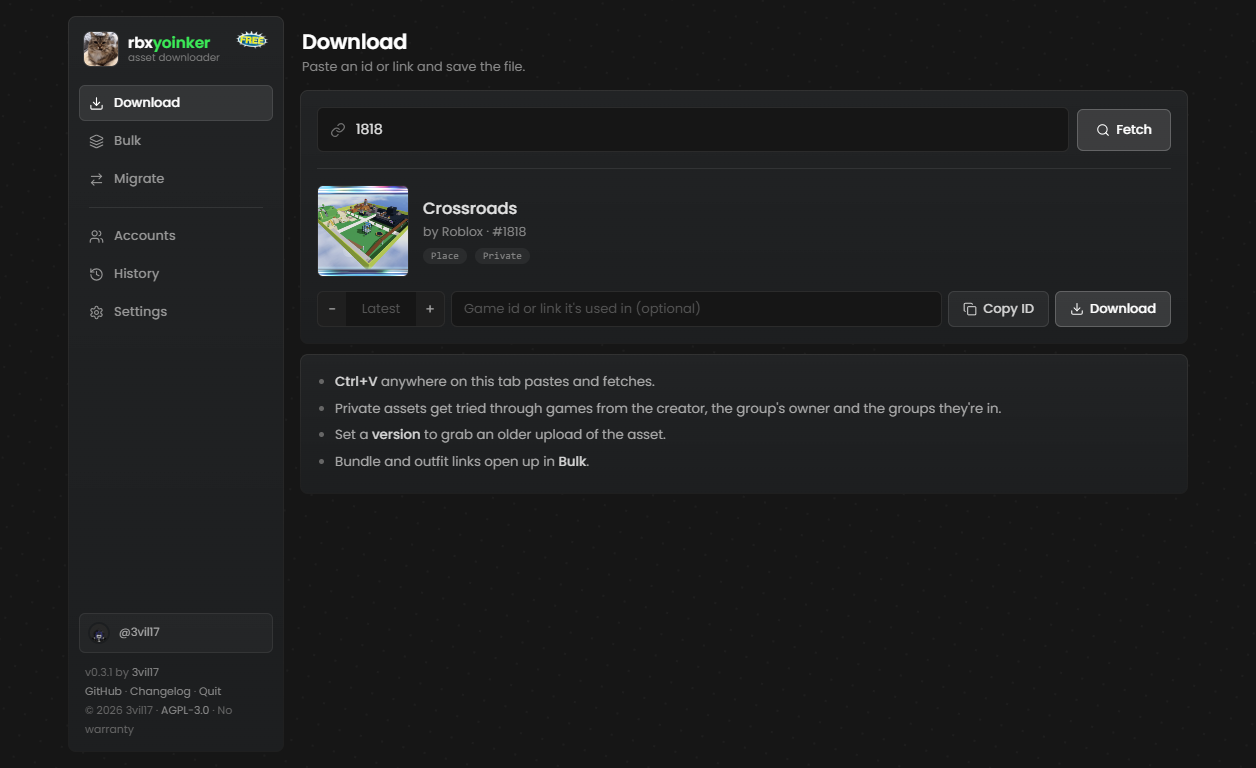
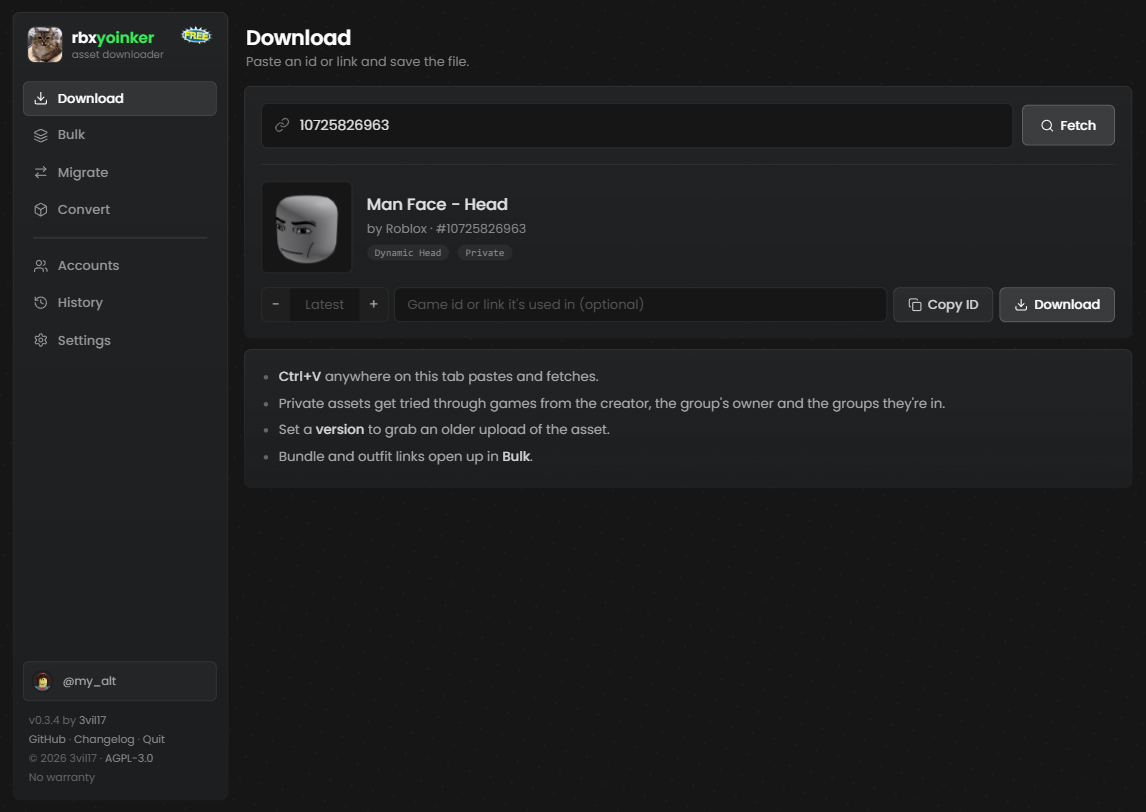
rewrite readme with new screenshots

diff --git a/README.md b/README.md
@@ -5,94 +5,135 @@
 <h1 align="center">rbxyoinker</h1>
 
 <p align="center">
-  Download Roblox assets, in bulk if you want, and move a game's assets to a new group.<br>
-  Runs on your PC, nothing goes through anyone else's server.
+  A Roblox asset downloader that runs on your own PC.<br>
+  Single assets, bulk downloads, private assets, mesh conversion and moving a game's assets to a new owner.
 </p>
 
 <p align="center">
   <a href="https://github.com/3vil17/rbxyoinker/releases/latest"><img src="https://img.shields.io/github/v/release/3vil17/rbxyoinker?label=download&color=3bea57" alt="Latest release" /></a>
-  <img src="https://img.shields.io/badge/windows-only-555" alt="Windows only" />
+  <a href="https://github.com/3vil17/rbxyoinker/actions/workflows/ci.yml"><img src="https://github.com/3vil17/rbxyoinker/actions/workflows/ci.yml/badge.svg?branch=main" alt="CI" /></a>
+  <img src="https://img.shields.io/badge/platform-windows-555" alt="Windows" />
   <a href="LICENSE"><img src="https://img.shields.io/badge/license-AGPL--3.0-555" alt="AGPL-3.0" /></a>
+</p>
+
+<p align="center">
+  <a href="#getting-started">Getting started</a> ·
+  <a href="#features">Features</a> ·
+  <a href="#meshes">Meshes</a> ·
+  <a href="#migrate">Migrate</a> ·
+  <a href="#security">Security</a> ·
+  <a href="#troubleshooting">Troubleshooting</a>
 </p>
 
 ![The Download tab](docs/download.png)
 
-## What it does
+## Features
 
-- **Download** anything with an asset id: audio, images, decals, meshes, models, animations
-- **Bulk** download up to 1000 at once, or pull every id out of a place or model file
-- **Private assets** get tried through games that might use them, so it reaches more than the website does
-- **Migrate** moves a place's assets to your account or a group and swaps the new ids in for you
-- **Old versions** of an asset, audio preview, meshes to `.obj`, images to `.png`
-- **Updates itself** in one click
+| | |
+|---|---|
+| **Download** | Any asset with an id: audio, images, decals, meshes, models, animations, heads and clothing. Preview it first, pick an older version, or point it at a game that uses it. |
+| **Bulk** | Up to 1000 ids or links at once, or every id inside a `.rbxl` / `.rbxm` / `.rbxlx` / `.rbxmx`. Filter by type, retry failures by reason, zip the lot. |
+| **Private assets** | If a direct download is refused, it tries again from inside games that might use the asset. It reaches a lot more than the website does. |
+| **Meshes** | Every mesh version, 1.00 to 7.00, saved as `.obj` or `.glb` with vertex colors, bones and skin weights. |
+| **Animated heads** | Heads come with the real animated version too: the `MeshPart` with face controls, plus its mesh. |
+| **Convert** | Drop `.mesh` files you already have and get `.obj` / `.glb` back. Works offline. |
+| **Migrate** | Moves a place's assets to your account or a group and swaps the new ids in, straight from Studio. |
+| **Accounts** | Add a few cookies (alts are fine) and bulk work gets spread across them. |
+| **Updates** | One click, with signed releases. |
 
 ## Getting started
 
-1. Download `rbxyoinker.exe` from [releases](https://github.com/3vil17/rbxyoinker/releases/latest) and run it. There's nothing to install.
-2. Windows may say it's from an unknown publisher, because the exe isn't code signed. Click **More info**, then **Run anyway**.
+1. Download `rbxyoinker.exe` from the [latest release](https://github.com/3vil17/rbxyoinker/releases/latest). There's nothing to install.
+2. Windows may warn that it's from an unknown publisher, because the exe isn't code signed. Click **More info**, then **Run anyway**.
 3. A browser tab opens. If it doesn't, go to http://127.0.0.1:48620.
-4. Add a `.ROBLOSECURITY` cookie in **Settings**. Most assets need you to be logged in.
-5. Paste an id or link in **Download** and hit Fetch.
+4. Add a `.ROBLOSECURITY` cookie in **Settings**. Most assets need a signed in account. Use an alt.
+5. Paste an id or link in **Download** and press Fetch.
 
-To close it, just close the tab, or use **Quit** at the bottom of the sidebar.
+To close it, close the tab or use **Quit** at the bottom of the sidebar.
 
-Only download it from this repo. Anything else may be a modified copy.
+> Only download rbxyoinker from this repo. Copies from anywhere else may be modified.
 
-## Tabs
+## The tabs
 
 | Tab | What it's for |
 |---|---|
-| **Download** | One asset. Shows a preview, type, and whether it's public. Set a version for an older upload, or give it the game the asset is used in |
-| **Bulk** | Paste ids or links, or drop a `.rbxl` / `.rbxm` / `.rbxlx` / `.rbxmx`. Filter by type, retry failures by reason, zip it all |
-| **Migrate** | Move a place's assets from Studio. See below |
-| **Accounts** | Every cookie you added, whether it works and how busy it's been |
-| **History** | Past downloads with thumbnails, search, type filters and download again |
-| **Settings** | Cookies, download folder, file names, sorting by type |
+| **Download** | One asset. Shows a preview, its type and whether it's public. `Ctrl+V` anywhere on the tab pastes and fetches. |
+| **Bulk** | Paste ids or links, or drop a place or model file. Bundles and outfits open into their items. |
+| **Migrate** | Move a place's assets from Studio to a new owner. [More below](#migrate). |
+| **Convert** | Turn `.mesh` files into `.obj` or `.glb`. |
+| **Accounts** | Every cookie you added, whether it still works and how busy it's been. |
+| **History** | Your last 200 downloads, with search, type filters and download again. |
+| **Settings** | Cookies, download folder, file names, sorting by type, mesh and image formats. |
+
+![The Bulk tab](docs/bulk.png)
+
+## Meshes
+
+Mesh handling comes from [rbxmesh](https://github.com/3vil17/rbxmesh), a separate open source library by the same author. It reads every known mesh version, including version 7, which uses Draco compression and which most other tools can't open.
+
+| Format | What you get |
+|---|---|
+| `.obj` | Geometry, normals, UVs and vertex colors. Opens almost anywhere. |
+| `.glb` | All of that plus the skeleton and skin weights, so layered clothing and bodies open in Blender already rigged. |
+
+Turn either on in **Settings**, or use the **Convert** tab for files you already have.
+
+![The Convert tab](docs/convert.png)
 
 ## Migrate
 
-![The Migrate tab](docs/migrate.png)
-
-Moves the assets a place uses to your account or a group you manage, then swaps the new
-ids into the place. Handy when a game moves to a new group.
+Moves the assets a place uses to your account or a group you manage, then swaps the new ids into the place. Useful when a game moves to a new group.
 
 1. In the Migrate tab, click **Install plugin** and restart Studio.
-2. Open your place, click **Migrate** in the Plugins tab, and pair it with the code from the app.
+2. Open your place, click **Migrate** in the Plugins tab and pair it with the code from the app.
 3. Click **Scan place**. The assets show up in the app.
 4. Pick where they go. **Check first** shows what can be reached and how much of your audio limit is left, without uploading anything.
-5. Hit Move. Ctrl+Z in Studio undoes the swap.
+5. Press Move. `Ctrl+Z` in Studio undoes the swap.
 
-Sounds, images, meshes and animations can be moved. **Save report** lists what moved and
-which old ids are still in the place. Assets you already moved get reused, so a game with
-several places doesn't upload them twice.
+Sounds, images, meshes and animations can be moved. **Save report** lists what moved and which old ids are still in the place. Assets you already moved get reused, so a game with several places doesn't upload them twice.
 
-Bulk and Migrate leave out default assets, like the sky, the baseplate grid and Roblox's own
-images, sounds and animations, and show how many they skipped. You can turn this off in Settings. The Download tab still gets
-them if you paste the id yourself.
+**Use an alt for uploads.** If Roblox moderation flags an upload, the account that uploaded it takes the strike, even when the asset goes to a group. When the uploading account looks like a main account (old, Premium, limiteds, groups it owns and so on), Migrate warns you, lists why, and won't start until you confirm.
 
-## Cookies
+Bulk and Migrate skip Roblox's own default assets, like the sky, the baseplate grid and built-in sounds and animations, and show how many were skipped. You can turn this off in Settings.
 
-Your cookie is a full login, so don't share it with anyone. It's kept in Windows Credential
-Manager, not in a file, and only ever gets sent to Roblox.
-
-Adding a few accounts (alts are fine) makes bulk downloads faster. Requests get spread
-across them, and if one gets rate limited the others keep going.
-
-An Open Cloud API key (`legacy-asset:manage` scope) works too, but it reaches far fewer
-assets, so it's tucked away at the bottom of Settings.
+![The Migrate tab](docs/migrate.png)
 
 ## How it gets private assets
 
-If a direct download is refused, it tries again from inside games that might use the asset:
-the creator's games, then for group assets the owner's games, then games from groups that
-person is in. Whatever works gets remembered for that creator. If you know the game, put
-it in the game box and it goes first.
+When a direct download is refused, rbxyoinker tries again from inside games that might use the asset: the creator's games first, then for group assets the owner's games, then games from groups that person is in. Whatever works is remembered for that creator. If you know the game, put it in the game box and it goes first.
 
-## When a download fails
+## Accounts and cookies
 
-It tells you why in plain words, and **Details** shows what Roblox said at each step. Usually
-the asset is private and none of your accounts can reach it. Packages, moderated assets and
-deleted assets can't be downloaded, and assets still in review usually can't either.
+A `.ROBLOSECURITY` cookie is a full login, so never share it. rbxyoinker keeps cookies in Windows Credential Manager, not in a file, and only ever sends them to Roblox.
+
+Adding a few accounts makes bulk downloads faster. Requests are spread across them, and if one gets rate limited the others keep going.
+
+An Open Cloud API key with the `legacy-asset:manage` scope works too, but it reaches far fewer assets, so it's tucked away at the bottom of Settings.
+
+## Security
+
+- **Local only.** The app only listens on your own PC. Other websites can't talk to it, and every request has to carry a key that only the app's own page knows. A new key is made every launch.
+- **Signed updates.** Releases are built by GitHub Actions and signed with a key that isn't on GitHub. The app won't install an update unless the signature matches, so a hacked GitHub account can't push a bad update.
+- **Important updates are enforced.** When a release fixes something serious, older versions stop working until they update.
+
+To check a download yourself, grab `rbxyoinker.exe.minisig` from the same release and run:
+
+```
+minisign -Vm rbxyoinker.exe -P RWQIISBNpKRKRP5ILebS96X44Nh05784HVJdk71MBLHvoezrKP1rgv6t
+```
+
+Found a security problem? Open an issue, but leave out the details of how to exploit it.
+
+## Troubleshooting
+
+When a download fails, rbxyoinker says why in plain words, and **Details** shows what Roblox said at each step.
+
+| What you see | What it usually means |
+|---|---|
+| Private, no account can reach it | None of your accounts has access, and no game it was tried through works. Add the game it's used in. |
+| Moderated or content deleted | Roblox removed it. It can't be downloaded. |
+| In review | Roblox hasn't approved it yet. Try again later. |
+| Package | Packages only download for accounts that have access to them. |
 
 ## Build it yourself
 
@@ -104,30 +145,12 @@ cargo build --release
 
 The exe ends up in `target/release/rbxyoinker.exe`.
 
-## Security
-
-The app only listens on your own PC and refuses requests from other websites. Releases are
-built by GitHub Actions and signed with a key that isn't on GitHub. The app won't install an
-update unless the signature matches, so a hacked GitHub account can't push a bad update.
-
-To check a download yourself, grab `rbxyoinker.exe.minisig` from the same release and run:
-
-```
-minisign -Vm rbxyoinker.exe -P RWQIISBNpKRKRP5ILebS96X44Nh05784HVJdk71MBLHvoezrKP1rgv6t
-```
-
-Found a problem? Open an issue, but leave out the details of how to exploit it.
-
 ## Disclaimer
 
-rbxyoinker is a fan-made tool and isn't affiliated with or endorsed by Roblox. Only download
-or reuse assets you made or have permission to use. Using your accounts with third party
-tools is at your own risk.
+rbxyoinker is a fan-made tool and isn't affiliated with or endorsed by Roblox. Only download or reuse assets you made or have permission to use. Using your accounts with third party tools is at your own risk.
 
 ## License
 
-AGPL-3.0 with a few additional terms, see [LICENSE](LICENSE) and [NOTICE.md](NOTICE.md).
+AGPL-3.0 with a few additional terms. See [LICENSE](LICENSE) and [NOTICE.md](NOTICE.md).
 
-If you share a modified version or run it as a service, you have to publish your source
-under the same license, keep the credit, say it's an unofficial modified version and give
-it your own name and logo.
+If you share a modified version or run it as a service, you have to publish your source under the same license, keep the credit, say it's an unofficial modified version, and give it your own name and logo.
